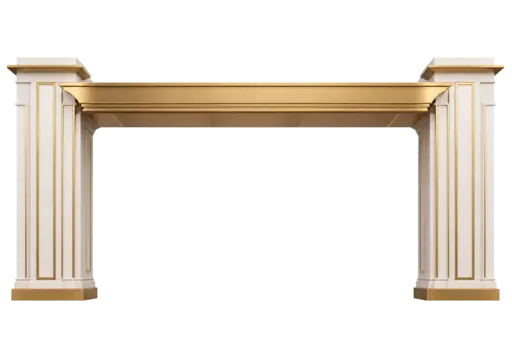
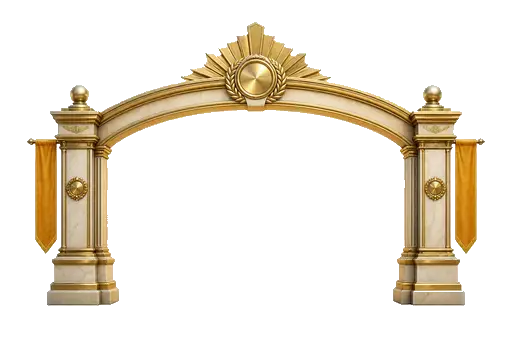
ティアゲートv3: 色ではなく輪郭でティアを見分けさせる意匠 (#25)
5段の門を、円章 / 旭日＋幟 / 二重アーチ＋四灯 / 結晶塔 / 二層黒漆屋根へ刷新。
ファイル名・512x341・透過を維持しているので、配置コードは変更なしで差し替わる。
到達演出のアートディレクション（3段構成、アンバサダーは4秒の別格）を
design/proposals/tier-gate-identity-v3.md に同梱。

diff --git a/design/proposals/tier-gate-celebration-390.html b/design/proposals/tier-gate-celebration-390.html
@@ -1,0 +1,42 @@
+<!doctype html>
+<html lang="ja">
+<meta charset="utf-8">
+<meta name="viewport" content="width=device-width, initial-scale=1">
+<title>Tier gate arrival direction</title>
+<style>
+  :root { color-scheme: dark; }
+  * { box-sizing: border-box; }
+  body { margin: 0; min-height: 100vh; display: grid; place-items: center; background: #17242f; font-family: Georgia, "Hiragino Mincho ProN", serif; }
+  .phone { position: relative; width: 390px; height: 844px; overflow: hidden; background: #e8e3d7; color: #fff; }
+  .world { position: absolute; inset: 0; background: linear-gradient(180deg, #667f95 0 10%, #f4e9d1 31%, #e6c98d 100%); }
+  .sun { position: absolute; top: 46px; left: 142px; width: 106px; height: 106px; border-radius: 50%; background: #f7d68a; box-shadow: 0 0 48px 20px #f7d68a88; }
+  .road { position: absolute; inset: 116px -72px -15px; background: linear-gradient(90deg, transparent 0 14%, #c4ad80 14% 16%, #eee1c8 16% 84%, #c4ad80 84% 86%, transparent 86%); clip-path: polygon(43% 0, 57% 0, 100% 100%, 0 100%); }
+  .road::after { content: ""; position: absolute; inset: 0; background: repeating-linear-gradient(180deg, transparent 0 75px, #d5b878 76px 82px, transparent 83px 154px); opacity: .72; }
+  .gate { position: absolute; z-index: 3; left: -22px; top: 162px; width: 434px; filter: drop-shadow(0 9px 10px #1c182933); animation: settle 4s ease-in-out infinite; }
+  .curtain { position: absolute; z-index: 2; top: 270px; left: 87px; width: 216px; height: 218px; overflow: hidden; opacity: 0; animation: curtain 4s ease-in-out infinite; }
+  .curtain::before, .curtain::after { content: ""; position: absolute; top: 0; width: 52%; height: 100%; background: linear-gradient(90deg, #e8fbff99, #95d7ff22); box-shadow: 0 0 24px #dffcff; }
+  .curtain::before { left: 0; transform-origin: left; }
+  .curtain::after { right: 0; transform-origin: right; background: linear-gradient(270deg, #e8fbff99, #95d7ff22); }
+  .rays { position: absolute; z-index: 1; inset: 128px 0 168px; background: repeating-conic-gradient(from 247deg at 50% 32%, #effcff00 0 10deg, #f8ffffa6 11deg 12deg, #effcff00 13deg 25deg); opacity: 0; animation: rays 4s ease-in-out infinite; }
+  .car { position: absolute; z-index: 4; top: 536px; left: 166px; width: 59px; height: 100px; background: linear-gradient(90deg, #20272b, #3a4448 46%, #161d20); border: 3px solid #ceac5d; border-radius: 24px 24px 14px 14px; box-shadow: 0 8px 11px #1a141766; transform: perspective(180px) rotateX(8deg); }
+  .car::before { content: ""; position: absolute; left: 10px; right: 10px; top: 11px; height: 36px; border-radius: 12px 12px 5px 5px; background: linear-gradient(90deg, #7da4b8, #d8ecf3, #6f95a5); }
+  .plaque { position: absolute; z-index: 5; top: 555px; left: 50%; width: 234px; padding: 12px 14px 11px; transform: translateX(-50%) scale(.86); border: 1px solid #e2c785; background: #182c3bdd; box-shadow: 0 9px 30px #1e384988, inset 0 0 0 3px #e3f7ff18; text-align: center; opacity: 0; animation: plaque 4s ease-in-out infinite; }
+  .eyebrow { margin: 0 0 4px; color: #d3eef9; font-size: 10px; letter-spacing: 0; }
+  h1 { margin: 0; color: #fff; font-size: 25px; font-weight: 500; letter-spacing: 0; }
+  .nights { margin: 5px 0 0; color: #eccf80; font-size: 13px; letter-spacing: 0; }
+  .caption { position: absolute; z-index: 6; right: 14px; bottom: 16px; color: #243847; font-size: 10px; letter-spacing: 0; }
+  @keyframes settle { 0%, 12% { transform: scale(.94); filter: drop-shadow(0 9px 10px #1c182933) brightness(.9); } 32%, 58% { transform: scale(1.06); filter: drop-shadow(0 9px 18px #deefffaa) brightness(1.16); } 75%, 100% { transform: scale(1); } }
+  @keyframes curtain { 0%, 13% { opacity: 0; transform: scaleX(0); } 25%, 58% { opacity: .95; transform: scaleX(1); } 70%, 100% { opacity: 0; transform: scaleX(1); } }
+  @keyframes rays { 0%, 14% { opacity: 0; transform: scale(.76); } 27%, 55% { opacity: .72; transform: scale(1); } 72%, 100% { opacity: 0; transform: scale(1.1); } }
+  @keyframes plaque { 0%, 43% { opacity: 0; transform: translateX(-50%) scale(.86); } 55%, 75% { opacity: 1; transform: translateX(-50%) scale(1); } 100% { opacity: 0; transform: translateX(-50%) translateY(42px) scale(.62); } }
+</style>
+<main class="phone" aria-label="プラチナ到達演出の390pxモック">
+  <div class="world"><div class="sun"></div><div class="road"></div></div>
+  <div class="rays"></div>
+  <div class="curtain"></div>
+  <img class="gate" src="../../assets/world/gate-platinum-50.webp" alt="">
+  <div class="car" aria-hidden="true"></div>
+  <section class="plaque" aria-label="到達メッセージ"><p class="eyebrow">NEW TIER</p><h1>PLATINUM</h1><p class="nights">50 NIGHTS ACHIEVED</p></section>
+  <p class="caption">arrival direction / 390 px</p>
+</main>
+</html>

diff --git a/design/proposals/tier-gate-identity-v3.md b/design/proposals/tier-gate-identity-v3.md
@@ -1,0 +1,76 @@
+# Tier Gate Identity and Arrival Direction v3
+
+## Goal
+
+Make each threshold recognizable before its plaque is legible, and make the
+moment of crossing feel like entering a new membership chapter rather than
+collecting a generic reward.
+
+## Five Gate Identities
+
+| Tier | Distance cue | Material cue | Arrival character |
+| --- | --- | --- | --- |
+| Silver 10 | Round medallion above one low arch | Silver, pale marble, warm lamp | A first invitation: restrained and clear. |
+| Gold 25 | Radiating crown and two vertical pennants | Brushed brass, ochre silk | The road becomes ceremonial. |
+| Platinum 50 | Tall double halo, four lights, blue diamond | White stone, platinum, cool glass | A composed landmark rather than a larger Gold gate. |
+| Titanium 75 | Tall separated crystal obelisks | Graphite, teal titanium, icy facets | The road passes through a precise, engineered monument. |
+| Ambassador 100 | Two-tier roof, red standards, gold crest | Black lacquer, vermilion, brass | A distinct final ceremony, never a recolor of Titanium. |
+
+The outer standards and lanterns are deliberately outside the central opening.
+The road, active stamp, and current car stay readable through every gate.
+
+## Arrival Sequence
+
+The existing 2.6-second celebration can keep its timing. Direct it as three
+quiet material beats rather than a confetti burst.
+
+1. **Approach light, 0-450 ms.** The tier crest wakes first; a narrow warm or
+   cool glow traces the gate crown and three long roadward light streaks rise.
+   Keep the road visible and do not cover the whole viewport.
+2. **Threshold opening, 450-1500 ms.** A translucent light curtain in the
+   gate opening parts from the center while the static frame grows by at most
+   6 percent, then settles. Reuse the rendered gate image and CSS gradients;
+   no split-door image is necessary.
+3. **Commemorative mark, 1500-2600 ms.** A compact tier plaque resolves below
+   the crest with the tier name and completed-night count from the app. It
+   then scales down toward the shoulder as a persistent yearly road marker.
+
+Use a tier-specific light temperature: warm silver for Silver, brass for Gold,
+cool white/blue for Platinum, blue-cyan for Titanium, and warm gold with a
+vermilion accent for Ambassador. The plaque text remains DOM text so the app
+can localize it and the assets remain text-free.
+
+## Ambassador 100
+
+Ambassador is a four-second exception, not simply a louder particle effect.
+
+- Hold the double roof and gold crest for 700 ms before the light curtain
+  parts; this creates a recognizably formal pause.
+- Open a deep vermilion inner glow, then send four measured lantern-light
+  trails upward from the outer pillars.
+- Resolve a black-lacquer plaque with a thin brass border and a single
+  vermilion stamp accent. Avoid fireworks, glitter rain, or rapidly spinning
+  elements.
+- Leave the smallest enduring marker on the shoulder: a dark plaque with a
+  gold edge. It should read as a chapter record, not a collectible badge.
+
+## Integration Notes For Coco
+
+- The five filenames and the `512 / 341` aspect ratio are unchanged. Current
+  `wgate` placement can consume the new images with no data or code change.
+- Build the arrival layers above the road world and below navigation. Use a
+  single `pointer-events: none` wrapper; do not block the user after the
+  animation ends.
+- For the static gate frame, prefer `transform: scale()` and `filter` only on
+  the gate image. Implement the opening as two clipped gradient panels in the
+  central opening, not by slicing this gate art.
+- Reuse the current tier color tokens for the plaque; the new silhouette must
+  remain the primary identifier.
+
+## Verification
+
+- At 390 px, the next gate remains identifiable by its upper silhouette before
+  its plaque can be read.
+- The transparent center reveals the driving lane and vehicle throughout.
+- The five optimized WebP files add about 75 KB total and keep the world asset
+  budget far below the current 8 MB allowance.

diff --git a/design/proposals/road-window-gate-contract.md b/design/proposals/road-window-gate-contract.md
@@ -1,4 +1,4 @@
-# Road Window Gate Contract v2
+# Road Window Gate Contract v3
 
 ## Purpose
 
@@ -10,18 +10,21 @@ the active stamp, cars, and the road remain visible.
 
 | Tier | Asset | Direction |
 | --- | --- | --- |
-| Silver 10 | `assets/world/gate-silver-10.webp` | Simple silver arch |
-| Gold 25 | `assets/world/gate-gold-25.webp` | Brass canopy |
-| Platinum 50 | `assets/world/gate-platinum-50.webp` | Double arch with lamps |
-| Titanium 75 | `assets/world/gate-titanium-75.webp` | Faceted stone pillars |
-| Ambassador 100 | `assets/world/gate-ambassador-100.webp` | Black lacquer and deep vermilion grand gate |
+| Silver 10 | `assets/world/gate-silver-10.webp` | Round medallion over one calm silver arch. |
+| Gold 25 | `assets/world/gate-gold-25.webp` | Sunburst crown, brass arch, and two outer pennants. |
+| Platinum 50 | `assets/world/gate-platinum-50.webp` | Tall nested arches, four lantern crowns, and an ice-blue diamond. |
+| Titanium 75 | `assets/world/gate-titanium-75.webp` | Separated faceted obelisks with a thin angular beam and crystal keystone. |
+| Ambassador 100 | `assets/world/gate-ambassador-100.webp` | Singular two-tier black-lacquer roof, vermilion standards, and ceremonial crest. |
 
-All five are `512 x 341` transparent WebP files. Their combined size is about
-74 KB. Do not bake them into the fixed road-window base.
+All five are `512 x 341` transparent WebP files with real alpha. Their
+combined size is about 75 KB. Do not bake them into the fixed road-window
+base.
 
 ## Placement
 
-Use `design/proposals/road-window-grand-highway-slots.json` schema v2.
+Use `design/proposals/road-window-grand-highway-slots.json` schema v2. The
+existing filenames and aspect ratio are retained, so this art replacement
+needs no placement-code change.
 
 - `baselineY` is the tile-boundary y coordinate where the gate feet meet the
   road shoulders.
@@ -39,10 +42,12 @@ The supplied horizon boundary is between `far` and `mid`; the near boundary is
 between `next` and `current`. This keeps the gate in the progression path and
 leaves both the current stamp and the two pawns inside valid tiles.
 
-## Integration Notes For Coco
+## Recognition Notes
 
-Replace the previous `gate.center` and `gate.size` reading with the v2 width
-and baseline contract. The current `design/mock-road-window-base.html` still
-contains the v1 inline JSON and a temporary gate calculation, so update its
-inline data when integrating. The gate image should never occupy the current
-stamp tile as an opaque overlay.
+- Do not add a generic color filter over these files. The silhouette is the
+  tier signal: circle, sunburst, double halo, crystal tower, then double roof.
+- Preserve enough horizon clearance to read the upper crest at the small
+  horizon size. The Ambassador roof may be wider than the lane but its legs
+  must still sit on the shoulders.
+- See `design/proposals/tier-gate-identity-v3.md` for the arrival sequence;
+  it reuses these files and adds no mandatory image asset.
